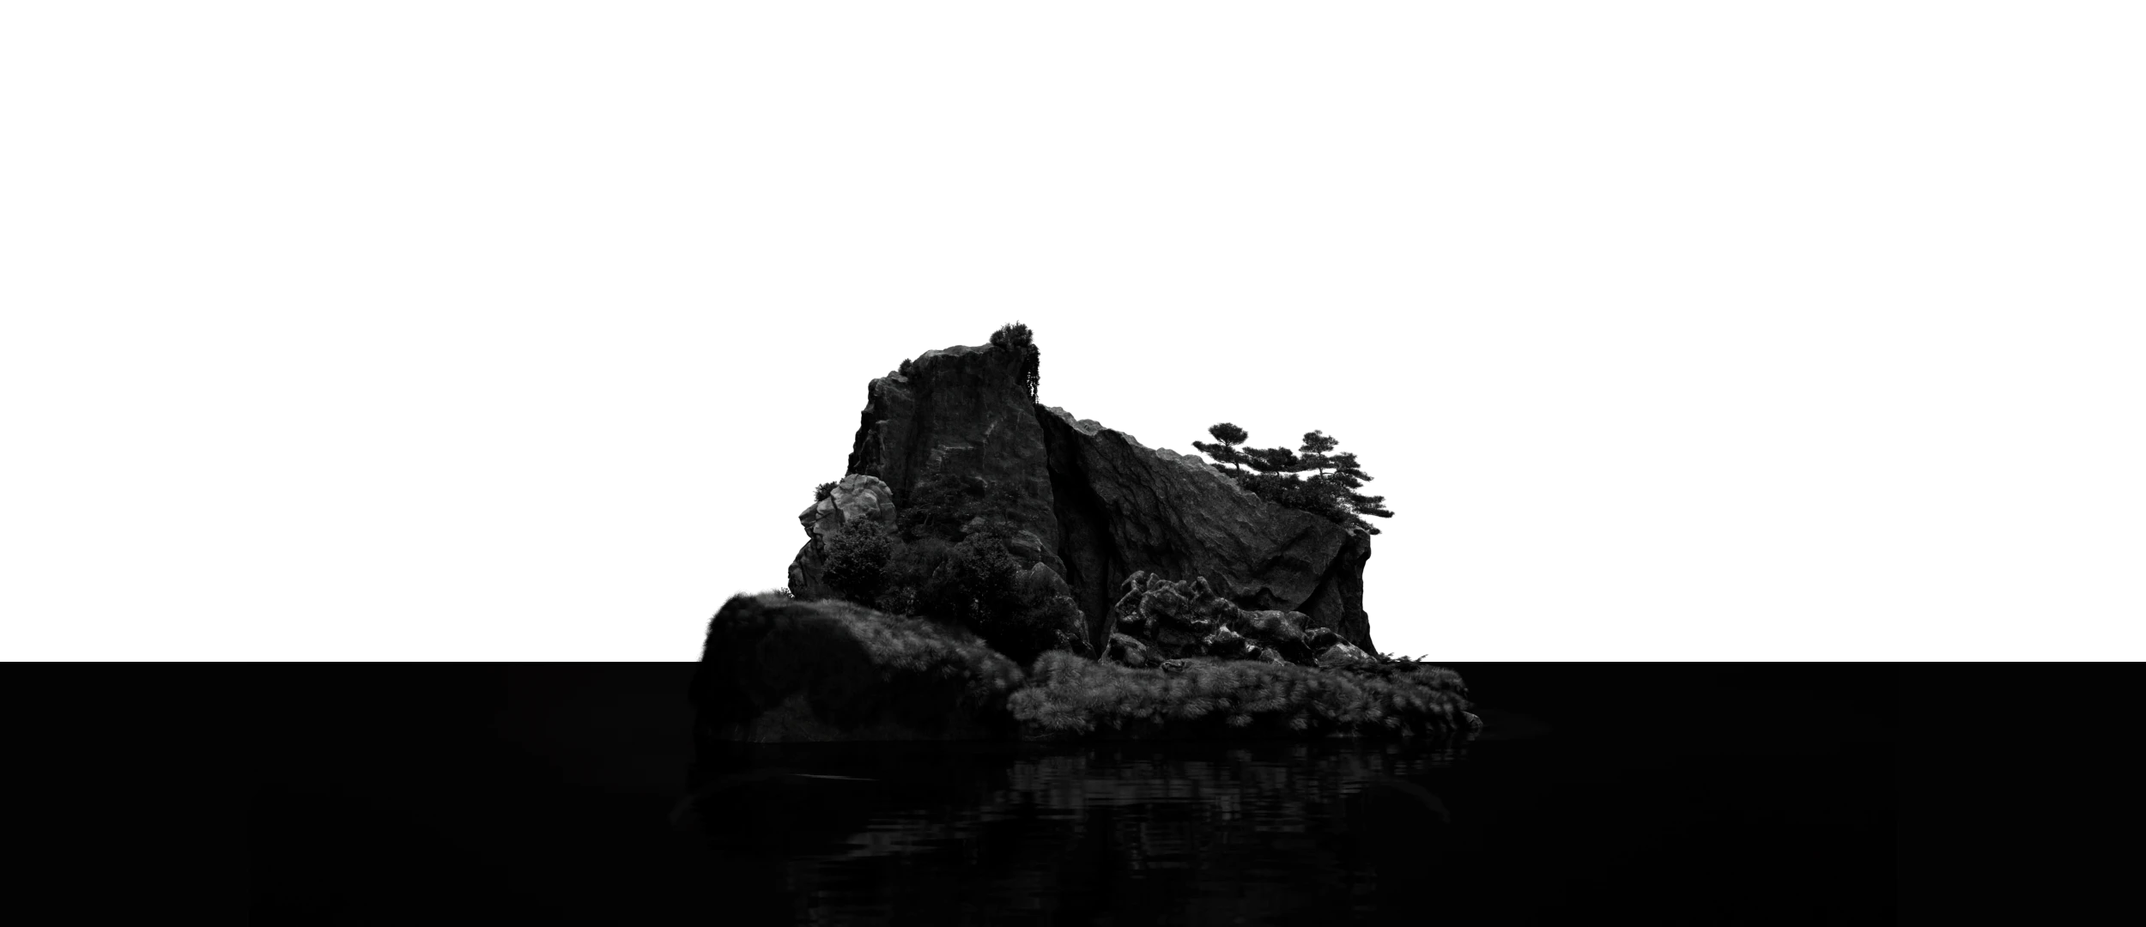
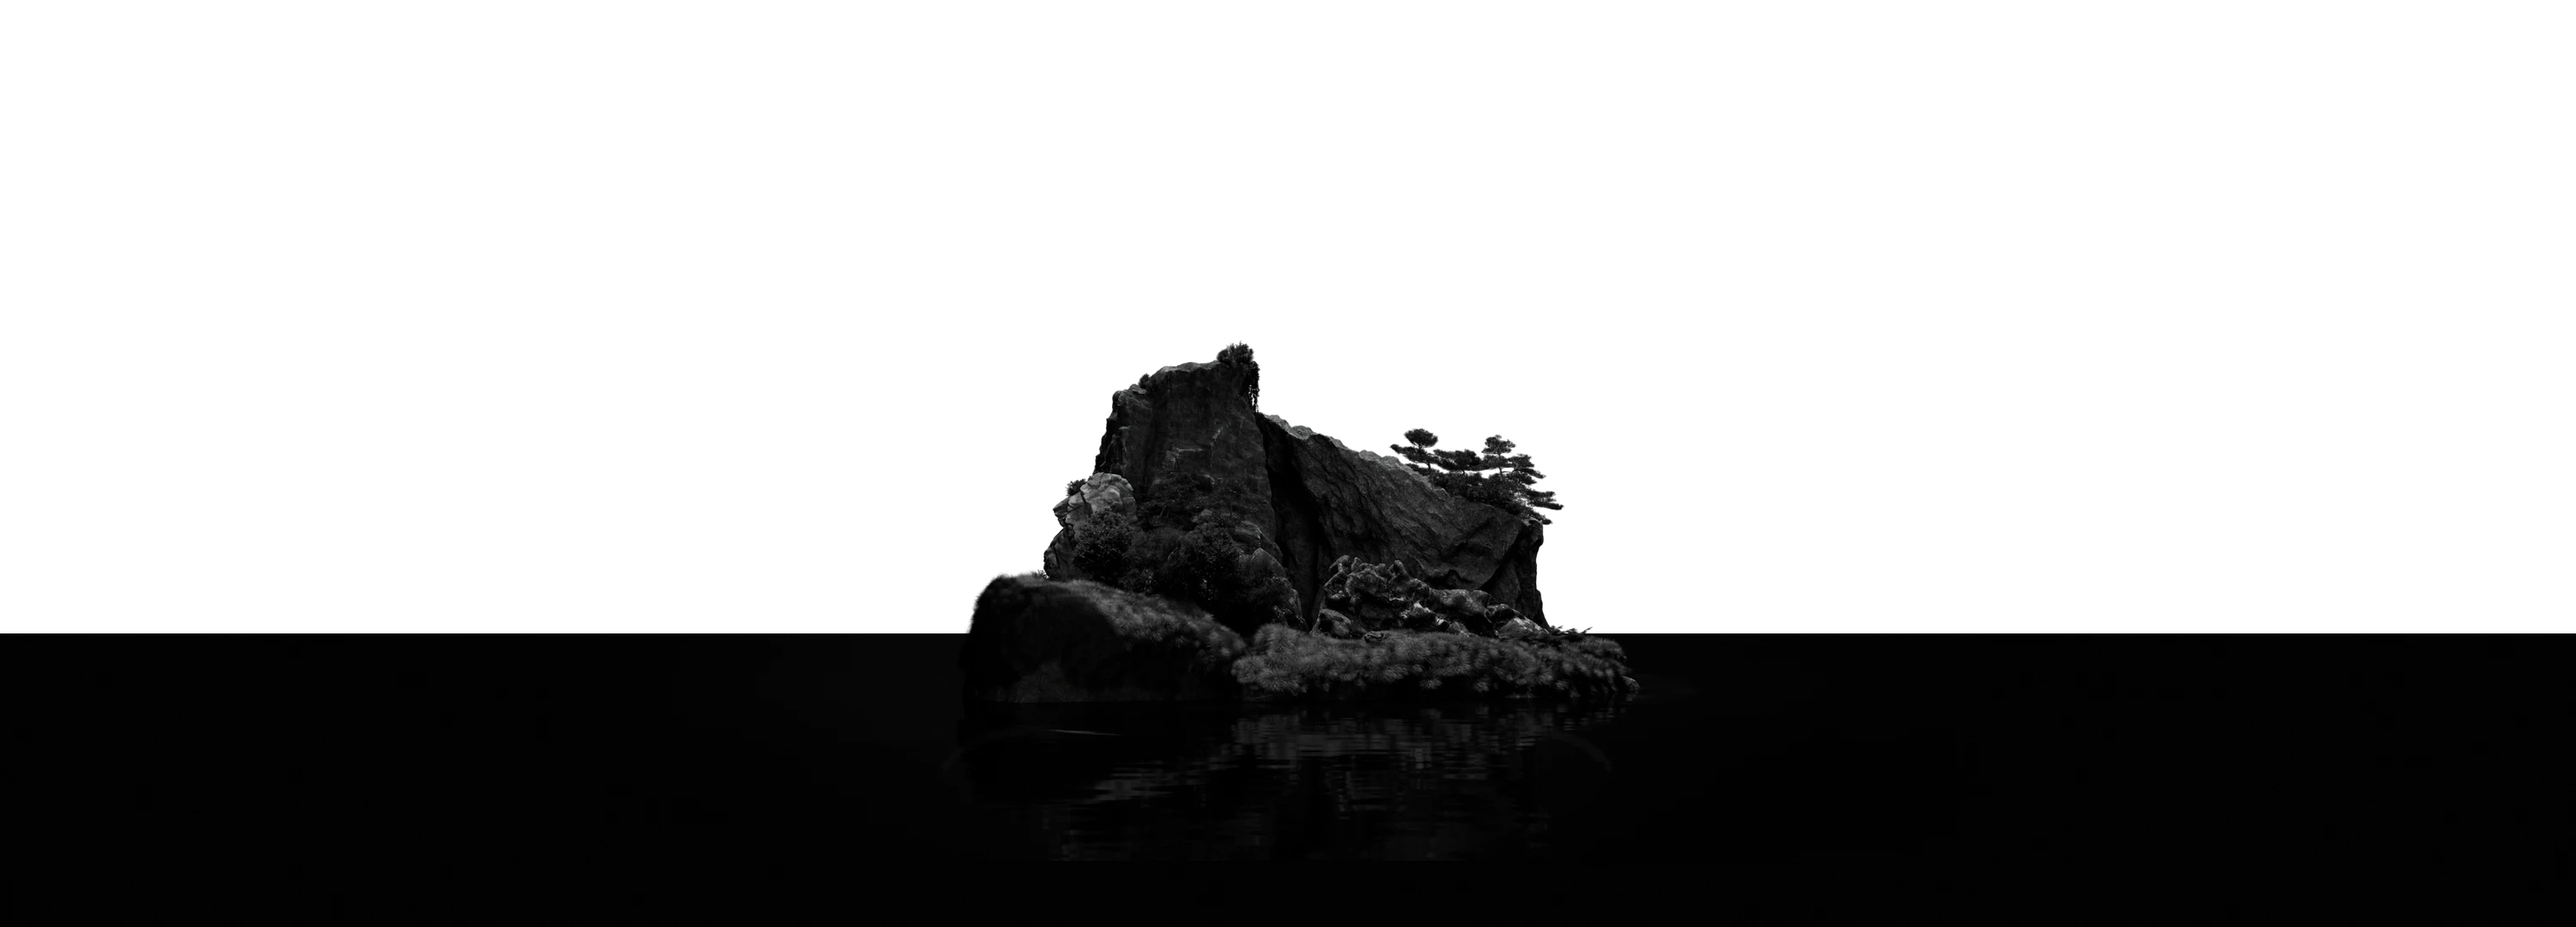
fixing parallax bug

Changed region(s): [[0.0, 0.3361, 1.0, 0.8861], [0.624, 0.825, 0.6552, 0.8556], [0.5616, 0.8556, 0.5928, 0.8861]]

diff --git a/src/components/ImageTransitions.jsx b/src/components/ImageTransitions.jsx
@@ -119,7 +119,7 @@ export default function ImageTransitions({
       },
       island: {
         texture: loadImageTexture("Island_v03.webp", gl, getPreloadedAsset),
-        width: 2500,
+        width: 3000,
         height: 1080,
       },
     };
@@ -465,7 +465,7 @@ export default function ImageTransitions({
           textureData: parallaxTextures.island,
           z: 0.1,
           ref: "island",
-          parallaxFactor: 0.13,
+          parallaxFactor: 0.05,
         },
       ];
 
@@ -669,7 +669,7 @@ export default function ImageTransitions({
         bg: 0.01,
         clouds: 0.02,
         rain: 0.02,
-        island: 0.03,
+        island: 0.05,
         smoke: 0.025, // ✅ Solo añado el factor de humo
       };
 
